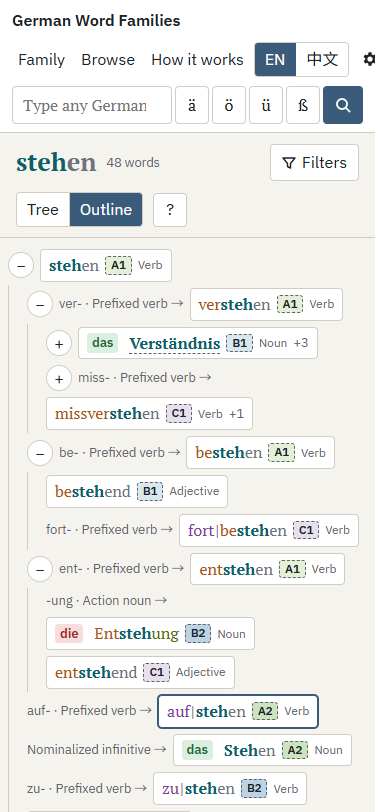
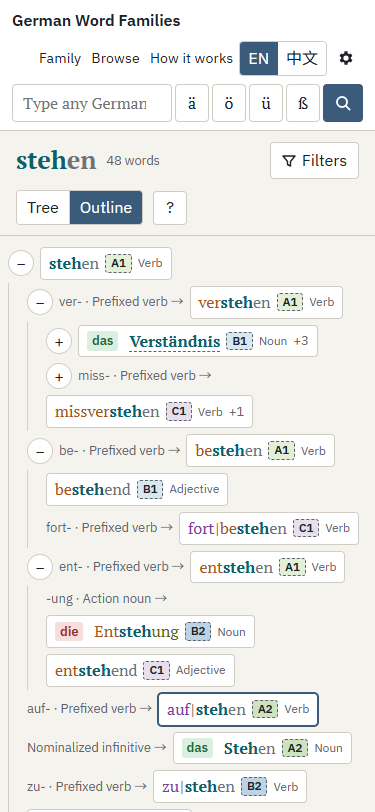
feat(web): fit the tree to the canvas by default; no overflow on phones
- default view scales the tree to fit, left-aligned and vertically centred; the fit button uses the same rule
- long German words wrap (morpheme boundaries first) in the detail card, title and outline
- tighter top navigation under 420px
- focused word is never hidden behind 'Show n more'
- scripts/check-mobile.mjs checks the detail card at 375px

diff --git a/web/src/components/FamilyTree.tsx b/web/src/components/FamilyTree.tsx
@@ -63,6 +63,34 @@ function animateTo(svg: SVGSVGElement, z: ZoomBehavior<SVGSVGElement, unknown>, 
   requestAnimationFrame(step);
 }
 
+export interface Bounds { minX: number; maxX: number; minY: number; maxY: number }
+
+export const FIT = { padX: 24, padTop: 12, padBottom: 32, minScale: 0.35, maxScale: 1.2, focusMargin: 40 };
+
+/**
+ * Default canvas transform: scale so the whole tree fits the canvas
+ * (clamped to [minScale, maxScale]), left-aligned horizontally and centred
+ * vertically. When the tree is too big to fit at minScale, the focused word
+ * is kept inside the visible area.
+ */
+export function fitTransform(
+  b: Bounds, width: number, height: number, focus: { x: number; y: number; w: number } | null,
+): { k: number; x: number; y: number } {
+  const availW = width - 2 * FIT.padX;
+  const availH = height - FIT.padTop - FIT.padBottom;
+  const k = Math.max(FIT.minScale, Math.min(FIT.maxScale, availW / (b.maxX - b.minX), availH / (b.maxY - b.minY)));
+  let x = FIT.padX - b.minX * k;
+  let y = FIT.padTop + availH / 2 - ((b.minY + b.maxY) / 2) * k;
+  if (focus) {
+    const right = (focus.x + focus.w) * k + x;
+    if (right > width - FIT.focusMargin) x -= right - (width - FIT.focusMargin);
+    const fy = focus.y * k + y;
+    if (fy < FIT.padTop + FIT.focusMargin) y += FIT.padTop + FIT.focusMargin - fy;
+    if (fy > height - FIT.padBottom - FIT.focusMargin) y -= fy - (height - FIT.padBottom - FIT.focusMargin);
+  }
+  return { k, x, y };
+}
+
 export function edgeLabel(e: Edge | undefined, t: (k: string) => string): string {
   if (!e) return '';
   const aff = [...e.added_prefixes, ...e.added_suffixes].join(' + ');
@@ -133,7 +161,8 @@ export function FamilyTree(props: TreeViewProps) {
   }, [visible, model, t, levelSource, myLevel, fontsReady]);
 
   // ------------------------------------------------------------- zoom
-  useEffect(() => {
+  // layout effect so the zoom behaviour exists before the initial fit below
+  useLayoutEffect(() => {
     const svg = svgRef.current;
     if (!svg) return;
     const z = d3zoom<SVGSVGElement, unknown>()
@@ -146,17 +175,21 @@ export function FamilyTree(props: TreeViewProps) {
     };
   }, []);
 
-  const fit = useCallback(() => {
-    const svg = svgRef.current;
-    const z = zoomRef.current;
-    if (!svg || !z) return;
-    const { width, height } = svg.getBoundingClientRect();
-    const b = layout.bounds;
-    const k = Math.max(0.3, Math.min(1.1, 0.92 * Math.min(width / (b.maxX - b.minX), height / (b.maxY - b.minY))));
-    const tx = (width - (b.maxX - b.minX) * k) / 2 - b.minX * k;
-    const ty = (height - (b.maxY - b.minY) * k) / 2 - b.minY * k;
-    animateTo(svg, z, zoomIdentity.translate(tx, ty).scale(k));
-  }, [layout]);
+  /** Default view (and the "fit" button): see `fitTransform`. */
+  const fit = useCallback(
+    (keepVisible: string | null = null, animate = true): boolean => {
+      const svg = svgRef.current;
+      const z = zoomRef.current;
+      if (!svg || !z) return false;
+      const { width, height } = svg.getBoundingClientRect();
+      if (!width || !height) return false;
+      const f = keepVisible ? layout.byId.get(keepVisible) : undefined;
+      const { k, x, y } = fitTransform(layout.bounds, width, height, f ? { x: f.x, y: f.y, w: f.w } : null);
+      animateTo(svg, z, zoomIdentity.translate(x, y).scale(k), animate ? 200 : 0);
+      return true;
+    },
+    [layout],
+  );
 
   const centerOn = useCallback(
     (id: string, animate = true) => {
@@ -172,38 +205,13 @@ export function FamilyTree(props: TreeViewProps) {
     [layout],
   );
 
-  /**
-   * Initial view: the tree's top-left corner sits at the top-left of the canvas
-   * (just below the family title) at 100 %. If the focused word would be off
-   * screen, shift only as far as needed to show it — no centring.
-   */
-  const alignTopLeft = useCallback(
-    (keepVisible: string | null) => {
-      const svg = svgRef.current;
-      const z = zoomRef.current;
-      if (!svg || !z) return;
-      const { width, height } = svg.getBoundingClientRect();
-      const b = layout.bounds;
-      let tx = 24 - b.minX;
-      let ty = 12 - b.minY;
-      const f = keepVisible ? layout.byId.get(keepVisible) : undefined;
-      if (f) {
-        const margin = 48;
-        if (f.x + f.w + tx > width - margin) tx = width - margin - (f.x + f.w);
-        if (f.y + NODE_H / 2 + ty > height - margin) ty = height - margin - (f.y + NODE_H / 2);
-      }
-      animateTo(svg, z, zoomIdentity.translate(tx, ty), 0);
-    },
-    [layout],
-  );
-
+  // default view: fit the whole tree (again once web fonts have changed node widths)
   const didInit = useRef<string | null>(null);
   useLayoutEffect(() => {
-    const key = `${model.family.id}:${focusId}`;
+    const key = `${model.family.id}:${focusId}:${fontsReady}`;
     if (didInit.current === key) return;
-    didInit.current = key;
-    alignTopLeft(focusId && layout.byId.has(focusId) ? focusId : null);
-  }, [model, focusId, layout, alignTopLeft]);
+    if (fit(focusId && layout.byId.has(focusId) ? focusId : null, false)) didInit.current = key;
+  }, [model, focusId, layout, fit, fontsReady]);
 
   // ------------------------------------------------------------- keyboard
   const order = useMemo(() => flattenVisible(visible).filter((v) => v.kind === 'word' || v.kind === 'more'), [visible]);
@@ -271,7 +279,7 @@ export function FamilyTree(props: TreeViewProps) {
       <div className="tree-tools">
         <button type="button" className="btn icon-btn" onClick={() => zoomRef.current && svgRef.current && select(svgRef.current).call(zoomRef.current.scaleBy, 1.25)} aria-label={t('tree.zoomIn')} title={t('tree.zoomIn')}>+</button>
         <button type="button" className="btn icon-btn" onClick={() => zoomRef.current && svgRef.current && select(svgRef.current).call(zoomRef.current.scaleBy, 0.8)} aria-label={t('tree.zoomOut')} title={t('tree.zoomOut')}>−</button>
-        <button type="button" className="btn icon-btn" onClick={fit} aria-label={t('tree.reset')} title={t('tree.reset')}>
+        <button type="button" className="btn icon-btn" onClick={() => fit(selectedId)} aria-label={t('tree.reset')} title={t('tree.reset')}>
           <svg width="14" height="14" viewBox="0 0 14 14" aria-hidden="true"><path d="M1 5V1h4M9 1h4v4M13 9v4H9M5 13H1V9" fill="none" stroke="currentColor" strokeWidth="1.6" /></svg>
         </button>
       </div>

diff --git a/web/src/lib/core.test.ts b/web/src/lib/core.test.ts
@@ -7,6 +7,7 @@ import { searchWord, type SearchDeps } from './search';
 import { foldUmlauts, normForm, shardKey } from './text';
 import { affixLookup, buildModel, candidateOf, matchedIds } from './family';
 import { wordTokens } from '../components/Word';
+import { FIT, fitTransform } from '../components/FamilyTree';
 import type { Family } from './types';
 
 const cand = (over: Partial<Candidate>): Candidate => ({
@@ -159,5 +160,28 @@ describe('text', () => {
     expect(tk.map((t) => t.text)).toEqual(['auf', '|', 'steh', 'en']);
     const c = wordTokens([[['Arbeit', 'ROOT'], ['s', 'LINK']], [['platz', 'ROOT']]], 'Arbeit·s·platz');
     expect(c.map((t) => `${t.text}:${t.type}`)).toEqual(['Arbeit:ROOT', '·:SEP', 's:LINK', '·:SEP', 'platz:ROOT']);
+  });
+});
+
+describe('default tree view (fitTransform)', () => {
+  const W = 1000;
+  const H = 600;
+  it('scales a large tree down to fit, left-aligned and vertically centred', () => {
+    const b = { minX: -20, maxX: 1900, minY: -400, maxY: 400 };
+    const { k, x, y } = fitTransform(b, W, H, null);
+    expect(k).toBeCloseTo((W - 2 * FIT.padX) / (b.maxX - b.minX), 5);
+    expect(b.minX * k + x).toBeCloseTo(FIT.padX, 5); // left edge at the padding
+    const mid = ((b.minY + b.maxY) / 2) * k + y;
+    expect(mid).toBeCloseTo(FIT.padTop + (H - FIT.padTop - FIT.padBottom) / 2, 5); // vertically centred
+  });
+  it('enlarges a small tree only up to maxScale', () => {
+    expect(fitTransform({ minX: -20, maxX: 200, minY: -40, maxY: 40 }, W, H, null).k).toBe(FIT.maxScale);
+  });
+  it('keeps the focused word visible when the tree cannot fit at minScale', () => {
+    const b = { minX: -20, maxX: 800, minY: -3000, maxY: 3000 };
+    const f = { x: 300, y: 2900, w: 120 };
+    const { k, y } = fitTransform(b, W, H, f);
+    expect(k).toBe(FIT.minScale);
+    expect(f.y * k + y).toBeLessThanOrEqual(H - FIT.padBottom - FIT.focusMargin + 0.001);
   });
 });

diff --git a/web/src/styles.css b/web/src/styles.css
@@ -299,7 +299,7 @@ details.collapsible[open] > summary::before { transform: rotate(90deg); }
 .detail .ipa { color: var(--ink-muted); font-size: var(--fs-md); }
 .card { border: 1px solid var(--line); border-radius: var(--radius); padding: 10px 12px; margin: 8px 0; }
 .card-title { font-weight: 600; margin: 0 0 6px; font-size: var(--fs-sm); }
-.kv { display: grid; grid-template-columns: auto 1fr; gap: 2px 12px; margin: 0; }
+.kv { display: grid; grid-template-columns: auto minmax(0, 1fr); gap: 2px 12px; margin: 0; }
 .kv dt { color: var(--ink-muted); font-size: var(--fs-sm); }
 .kv dd { margin: 0; }
 .pp { font-family: var(--font-de); font-size: var(--fs-lg); }
@@ -409,3 +409,16 @@ footer.site { border-top: 1px solid var(--line); padding: 16px; font-size: var(-
 .t-node { transition: opacity 200ms, transform 200ms; }
 .seg-btn { white-space: nowrap; }
 .btn[aria-pressed="true"] .muted { color: inherit; opacity: 0.85; }
+
+/* long German words may wrap (at morpheme boundaries first) instead of overflowing */
+.detail { overflow-wrap: anywhere; }
+.detail .word, .family-head .word, .o-node .word, .clist .word, .word-list .word, .example .word, .popover .word { white-space: normal; overflow-wrap: anywhere; }
+.o-node { min-width: 0; flex-wrap: wrap; }
+.o-row { min-width: 0; }
+.detail-panel { max-width: 100vw; }
+@media (max-width: 420px) {
+  .topnav { flex-wrap: wrap; justify-content: flex-end; gap: 2px; min-width: 0; }
+  .topnav a { padding: 6px 4px; font-size: 0.9rem; }
+  .topnav .seg-btn { padding: 4px 8px; }
+}
+.family-head h1 { min-width: 0; overflow-wrap: anywhere; }

diff --git a/web/src/pages/FamilyPage.tsx b/web/src/pages/FamilyPage.tsx
@@ -3,7 +3,7 @@ import { Link, useParams, useSearchParams } from 'react-router-dom';
 import { useI18n, useTitle } from '../i18n/i18n';
 import { loadAffixes, loadFamily } from '../lib/data';
 import {
-  affixLookup, buildModel, defaultExpanded, matchedIds, nodeLevel, pruneKeep, visibleTree, type AffixLookup, type FamilyModel,
+  affixLookup, ancestors, buildModel, defaultExpanded, matchedIds, nodeLevel, pruneKeep, visibleTree, type AffixLookup, type FamilyModel,
 } from '../lib/family';
 import { isEmpty, parseFilters, parseMode, writeFilters, type Filters, type Mode } from '../lib/filters';
 import { levelIndex } from '../lib/levels';
@@ -125,9 +125,13 @@ export function FamilyPage() {
     if (!model) return null;
     let exp = expanded;
     if (keep) exp = new Set([...expanded, ...keep]);
-    // make sure the selected node's ancestors are open
-    return visibleTree(model, exp, showAll, keep);
-  }, [model, expanded, showAll, keep]);
+    const pinned = new Set<string>();
+    if (initialFocus) {
+      pinned.add(initialFocus);
+      for (const a of ancestors(model, initialFocus)) pinned.add(a);
+    }
+    return visibleTree(model, exp, showAll, keep, pinned);
+  }, [model, expanded, showAll, keep, initialFocus]);
 
   const rootNode = model?.byId.get(model.rootId);
   useTitle(rootNode ? rootNode.lemma : '');

diff --git a/web/src/lib/family.ts b/web/src/lib/family.ts
@@ -155,6 +155,7 @@ export const MAX_VISIBLE = 300;
  */
 export function visibleTree(
   m: FamilyModel, expanded: Set<string>, showAll: Set<string>, keep: Set<string> | null,
+  pinned: Set<string> = new Set(),
 ): VisibleNode {
   const build = (id: string, parentId: string | null, maxDepth: number, d: number): VisibleNode => {
     const all = (m.children.get(id) ?? []).filter((c) => !keep || keep.has(c));
@@ -164,7 +165,10 @@ export function visibleTree(
       node.collapsed = true;
       return node;
     }
-    const shown = showAll.has(id) || all.length <= MAX_CHILDREN ? all : all.slice(0, MAX_CHILDREN);
+    let shown = showAll.has(id) || all.length <= MAX_CHILDREN ? all : all.slice(0, MAX_CHILDREN);
+    // the focused word and its ancestors are never hidden behind "Show n more"
+    const extra = all.filter((c) => pinned.has(c) && !shown.includes(c));
+    if (extra.length) shown = all.filter((c) => shown.includes(c) || extra.includes(c));
     node.children = shown.map((c) => build(c, id, maxDepth, d + 1));
     if (shown.length < all.length) {
       node.children.push({ id: `${id}::more`, kind: 'more', hiddenCount: all.length - shown.length, parentId: id, children: [] });

diff --git a/web/src/components/Word.tsx b/web/src/components/Word.tsx
@@ -1,3 +1,4 @@
+import { Fragment } from 'react';
 import type { MorphType, SegPart } from '../lib/types';
 import { useI18n } from '../i18n/i18n';
 
@@ -46,13 +47,13 @@ export function Word({
   const tokens = wordTokens(seg, display);
   return (
     <span className={`word ${uncertain ? 'uncertain' : ''} ${className}`} lang={lang}>
-      {tokens.map((tk, i) =>
-        tk.type === 'SEP' ? (
-          <span key={i} className="sep">{tk.text}</span>
-        ) : (
-          <span key={i} className={`m-${tk.type}`}>{tk.text}</span>
-        ),
-      )}
+      {tokens.map((tk, i) => (
+        <Fragment key={i}>
+          {/* preferred line-break points where a long word may wrap (morpheme boundaries) */}
+          {i > 0 && <wbr />}
+          {tk.type === 'SEP' ? <span className="sep">{tk.text}</span> : <span className={`m-${tk.type}`}>{tk.text}</span>}
+        </Fragment>
+      ))}
     </span>
   );
 }
